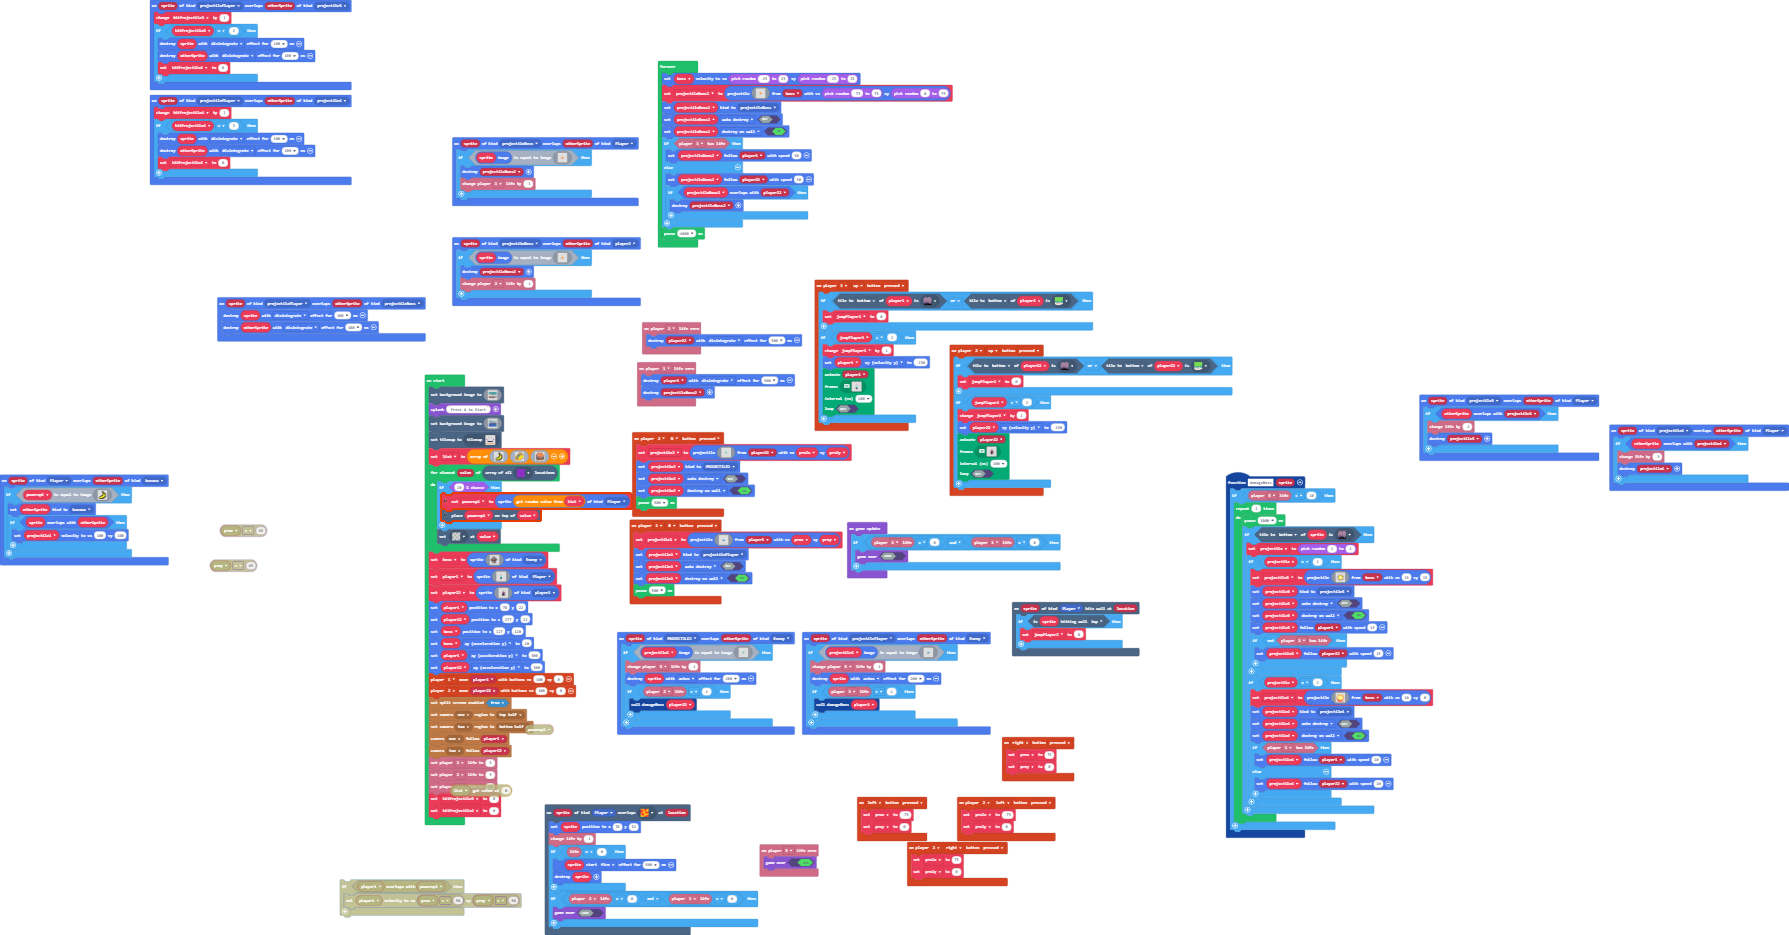
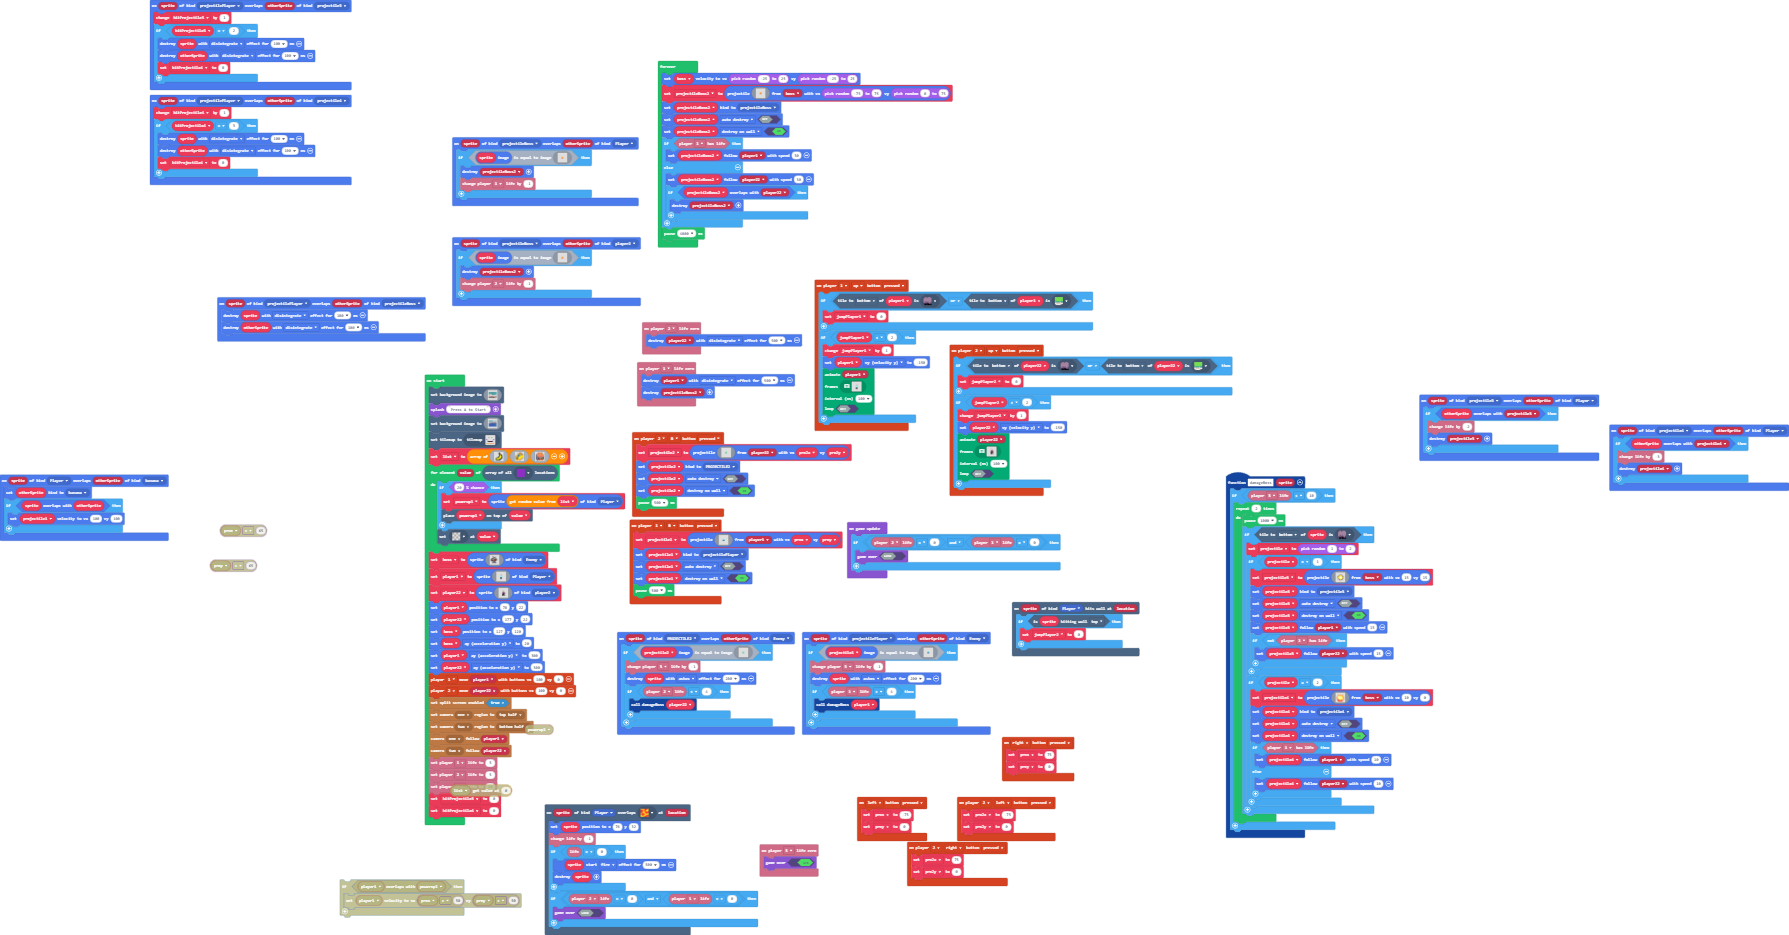
Update main.blocks, main.ts

Changed region(s): [[0.0, 0.4963, 0.0922, 0.6203], [0.2459, 0.5273, 0.3689, 0.5583]]

diff --git a/main.ts b/main.ts
@@ -653,24 +653,9 @@ sprites.onOverlap(SpriteKind.projectilePlayer, SpriteKind.projectileBoss, functi
     sprites.destroy(otherSprite, effects.disintegrate, 100)
 })
 sprites.onOverlap(SpriteKind.Player, SpriteKind.banana, function (sprite, otherSprite) {
-    if (powerup1.equals(img`
-        . . . . . . f . . . . . 
-        . . . . . f e f . . . . 
-        . . . . . . f 5 f . . . 
-        . . . . . . f 5 f f . . 
-        . . . . . . f 5 5 f f . 
-        . . . . . . f 5 5 5 f . 
-        . . . . . f f 5 5 5 f . 
-        . . . . f f 5 5 5 5 f . 
-        . . f f 5 5 5 5 5 f f . 
-        . f 5 5 5 5 5 5 f f . . 
-        . f 5 5 5 5 f f f . . . 
-        . . f f f f f . . . . . 
-        `)) {
-        otherSprite.setKind(SpriteKind.banana)
-        if (sprite.overlapsWith(otherSprite)) {
-            projectile1.setVelocity(100, 100)
-        }
+    otherSprite.setKind(SpriteKind.banana)
+    if (sprite.overlapsWith(otherSprite)) {
+        projectile1.setVelocity(100, 100)
     }
 })
 let projectile = 0
@@ -690,7 +675,7 @@ let hitProjectile3 = 0
 let player22: Sprite = null
 let player1: Sprite = null
 let boss: Sprite = null
-let powerup1: Image = null
+let powerup1: Sprite = null
 scene.setBackgroundImage(img`
[2 lines of base64/hex data omitted]
